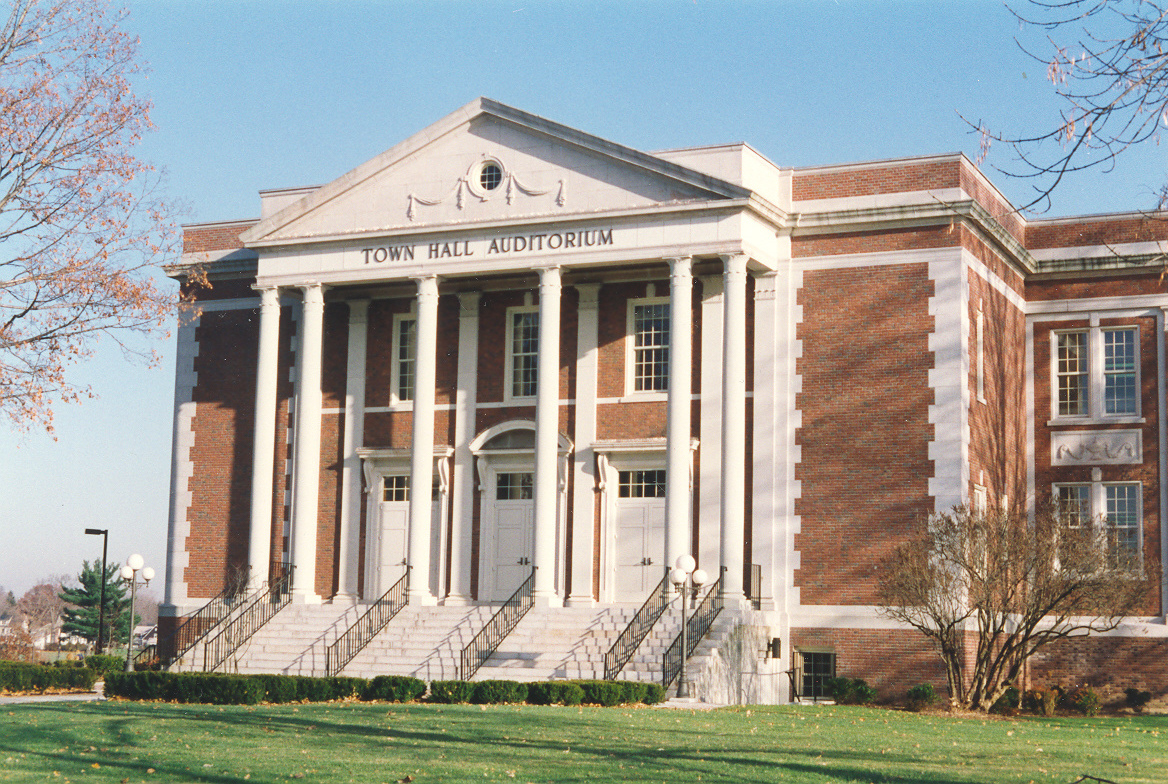
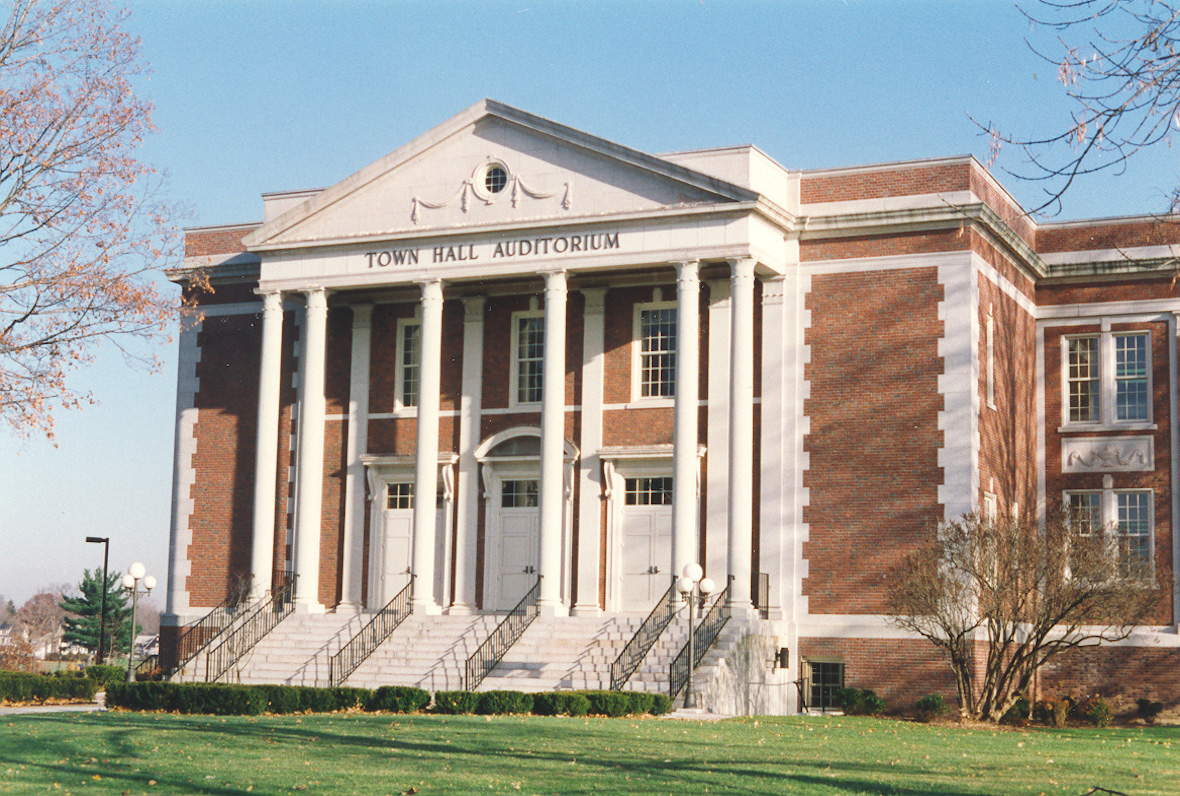
More slideshow work. And decreased pictuer sizes

diff --git a/SuperSimpleSlider/sss.js b/SuperSimpleSlider/sss.js
@@ -10,9 +10,9 @@
         var settings = $.extend({
             slideShow: true, // Set to false to prevent SSS from automatically animating.
             startOn: 0, // Slide to display first. Uses array notation (0 = first slide).
-            transition: 400, // Length (in milliseconds) of the fade transition.
-            speed: 3500, // Slideshow speed in milliseconds.
-            showNav: true // Set to false to hide navigation arrows.
+            transition: 1000, // Length (in milliseconds) of the fade transition.
+            speed: 5000, // Slideshow speed in milliseconds.
+            showNav: false // Set to false to hide navigation arrows.
         }, options);
 
         return this.each(function () {
@@ -43,8 +43,8 @@
 
             // Animate Slider
 
-            function get_height(target) {
-                return ((slides.eq(target).height() / slider.width()) * 100) + '%';
+            function get_width(target) {
+                return ((slides.eq(target).width() / slider.height()) * 100) + '%';
             }
 
             function animate_slide(target) {
@@ -56,13 +56,11 @@
                     slides.not(target_slide).fadeOut(transition);
 
                     slider.animate({
-                        paddingBottom: get_height(target)
+                        paddingleft: get_width(target)
                     }, transition, function () {
                         animating = false;
                     });
-
                     reset_timer();
-
                 }
             };
 
@@ -89,27 +87,10 @@
 
             $(window).load(function () {
 
-                slider.css({
-                    paddingBottom: get_height(target)
-                }).click(function (e) {
-                    clicked = $(e.target);
-                    if (clicked.is(next)) {
-                        next_slide()
-                    } else if (clicked.is(prev)) {
-                        prev_slide()
-                    }
-                });
 
                 animate_slide(target);
 
-                $(document).keydown(function (e) {
-                    key = e.keyCode;
-                    if (key === 39) {
-                        next_slide()
-                    } else if (key === 37) {
-                        prev_slide()
-                    }
-                });
+
 
             });
             // End

diff --git a/SuperSimpleSlider/sss.css b/SuperSimpleSlider/sss.css
@@ -1,51 +1,47 @@
 .sss {
-	height: 0;
-	margin: 0;
-	padding: 0;
-	position: relative;
-	display: block;
-	overflow: hidden;
+    height: 0;
+    margin: 0;
+    padding: 0;
+    position: relative;
+    display: block;
+    overflow: hidden;
 }
-
 .ssslide {
-	width: 100%;
-	margin: 0;
-	padding: 0;
-	position: absolute;
-	top: 0;
-	left: 0;
-	display: none;
-	overflow: hidden;
+    height: 100%;
+    margin: 0;
+    padding: 0;
+    position: absolute;
+    top: 0;
+    left: 0;
+    display: none;
+    overflow: hidden;
 }
-
 .ssslide img {
-	max-width: 100%;
-	height: auto;
-	margin: 0;
-	padding: 0;
-	position: relative;
-	display: block;
+    max-width: 100%;
+    height: auto;
+    margin: 0;
+    padding: 0;
+    position: relative;
+    display: block;
 }
-
-.sssnext, .sssprev {
-	width: 25px;
-	height: 100%;
-	margin: 0;
-	position: absolute;
-	top: 0;
-	background: url('images/arr.png') no-repeat;
-}
-
+.sssnext,
 .sssprev {
-	left: 3%;
-	background-position: 0 50%;
+    width: 25px;
+    height: 100%;
+    margin: 0;
+    position: absolute;
+    top: 0;
+    background: url('images/arr.png') no-repeat;
 }
-
+.sssprev {
+    left: 3%;
+    background-position: 0 50%;
+}
 .sssnext {
-	right: 3%;
-	background-position: -26px 50%;
+    right: 3%;
+    background-position: -26px 50%;
 }
-
-.sssprev:hover, .sssnext:hover {
-	cursor: pointer;
+.sssprev:hover,
+.sssnext:hover {
+    cursor: pointer;
 }

diff --git a/SuperSimpleSlider/sss.min.js b/SuperSimpleSlider/sss.min.js
@@ -1,0 +1,1 @@
+(function(e,t,n,r){e.fn.sss=function(r){var i=e.extend({slideShow:true,startOn:0,speed:3500,transition:400,arrows:true},r);return this.each(function(){function y(e){return s.eq(e).height()/o.width()*100+"%"}function b(e){if(!c){c=true;var t=s.eq(e);t.fadeIn(a);s.not(t).fadeOut(a);o.animate({paddingBottom:y(e)},a,function(){c=false});g()}}function w(){l=l===u-1?0:l+1;b(l)}function E(){l=l===0?u-1:l-1;b(l)}var r=e(this),s=r.children().wrapAll('<div class="sss"/>').addClass("ssslide"),o=r.find(".sss"),u=s.length,a=i.transition,f=i.startOn,l=f>u-1?0:f,c=false,h,p,d,v,m,g=i.slideShow?function(){clearTimeout(p);p=setTimeout(w,i.speed)}:e.noop;if(i.arrows){o.append('<div class="sssprev"/>','<div class="sssnext"/>')}m=o.find(".sssnext"),v=o.find(".sssprev");e(t).load(function(){o.css({paddingBottom:y(l)}).click(function(t){h=e(t.target);if(h.is(m)){w()}else if(h.is(v)){E()}});b(l);e(n).keydown(function(e){d=e.keyCode;if(d===39){w()}else if(d===37){E()}})})})}})(jQuery,window,document)

diff --git a/index.html b/index.html
@@ -89,6 +89,11 @@
         <div class="row">
             <div class="col s10 offset-s1">
                 <div class="card-panel">WELCOME</div>
+            </div>
+        </div>
+
+        <div class="row">
+            <div class="col s8 offset-s2">
                 <div class="slider">
                     <img src="Images/1.jpg" alt="Slideshow pictures">
                     <img src="Images/2.jpg" alt="Slideshow pictures">
@@ -98,7 +103,6 @@
                     <img src="Images/6.jpg" alt="Slideshow pictures">
                     <img src="Images/7.jpg" alt="Slideshow pictures">
                     <img src="Images/8.jpg" alt="Slideshow pictures">
-                    <img src="Images/9.jpg" alt="Slideshow pictures">
                 </div>
             </div>
         </div>

diff --git a/stylesheet.css b/stylesheet.css
@@ -54,6 +54,9 @@ nav {
 
 /* Slideshow in SuperSimpleSlidshow/sss.css */
 
+.sss {
+    height: 100%;
+}
 
 /* Page Contents */
 
